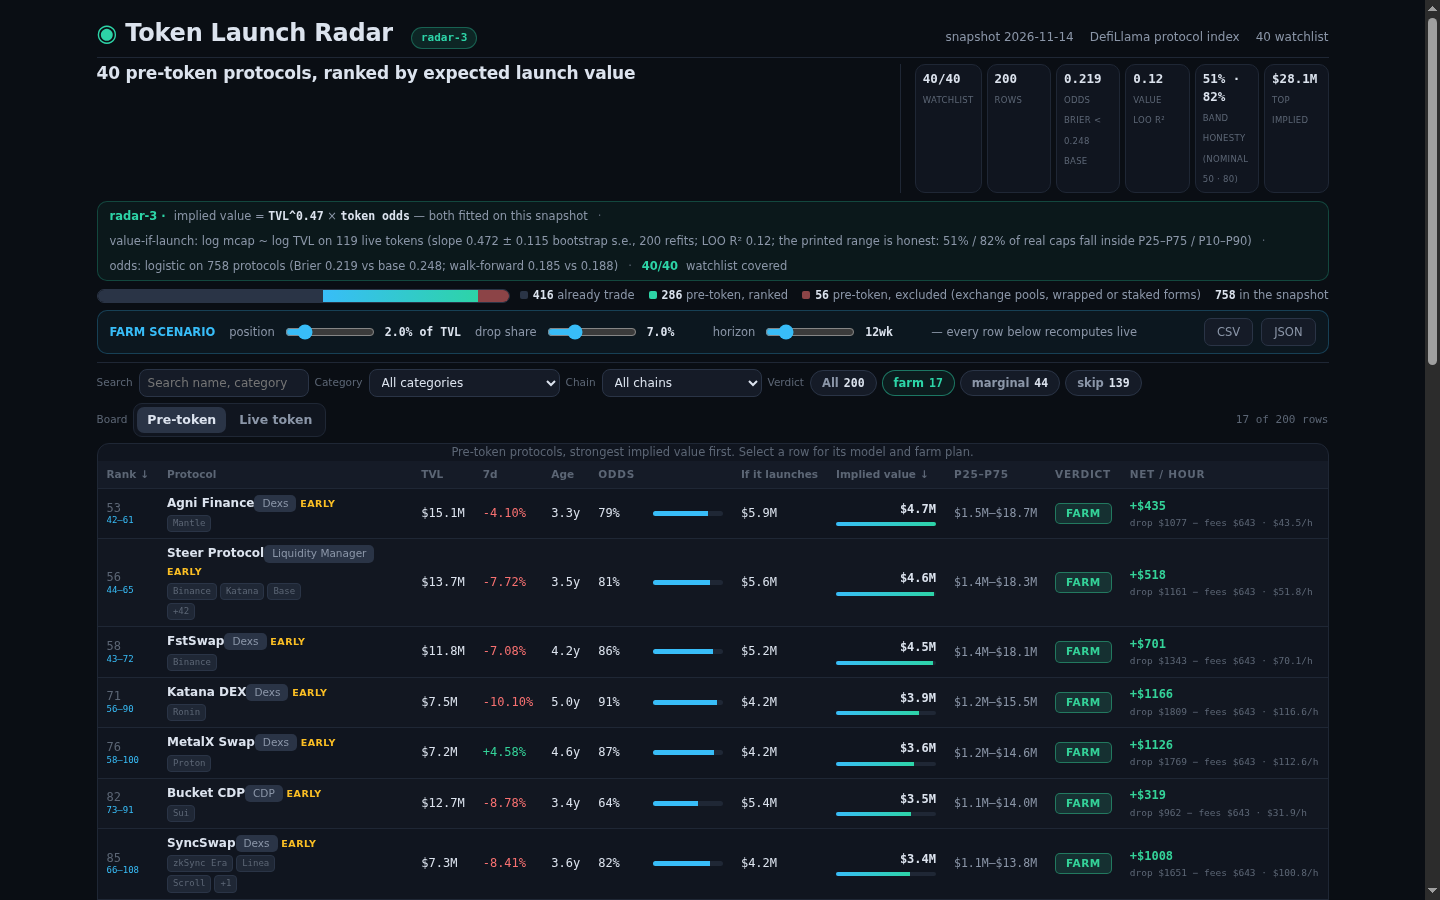
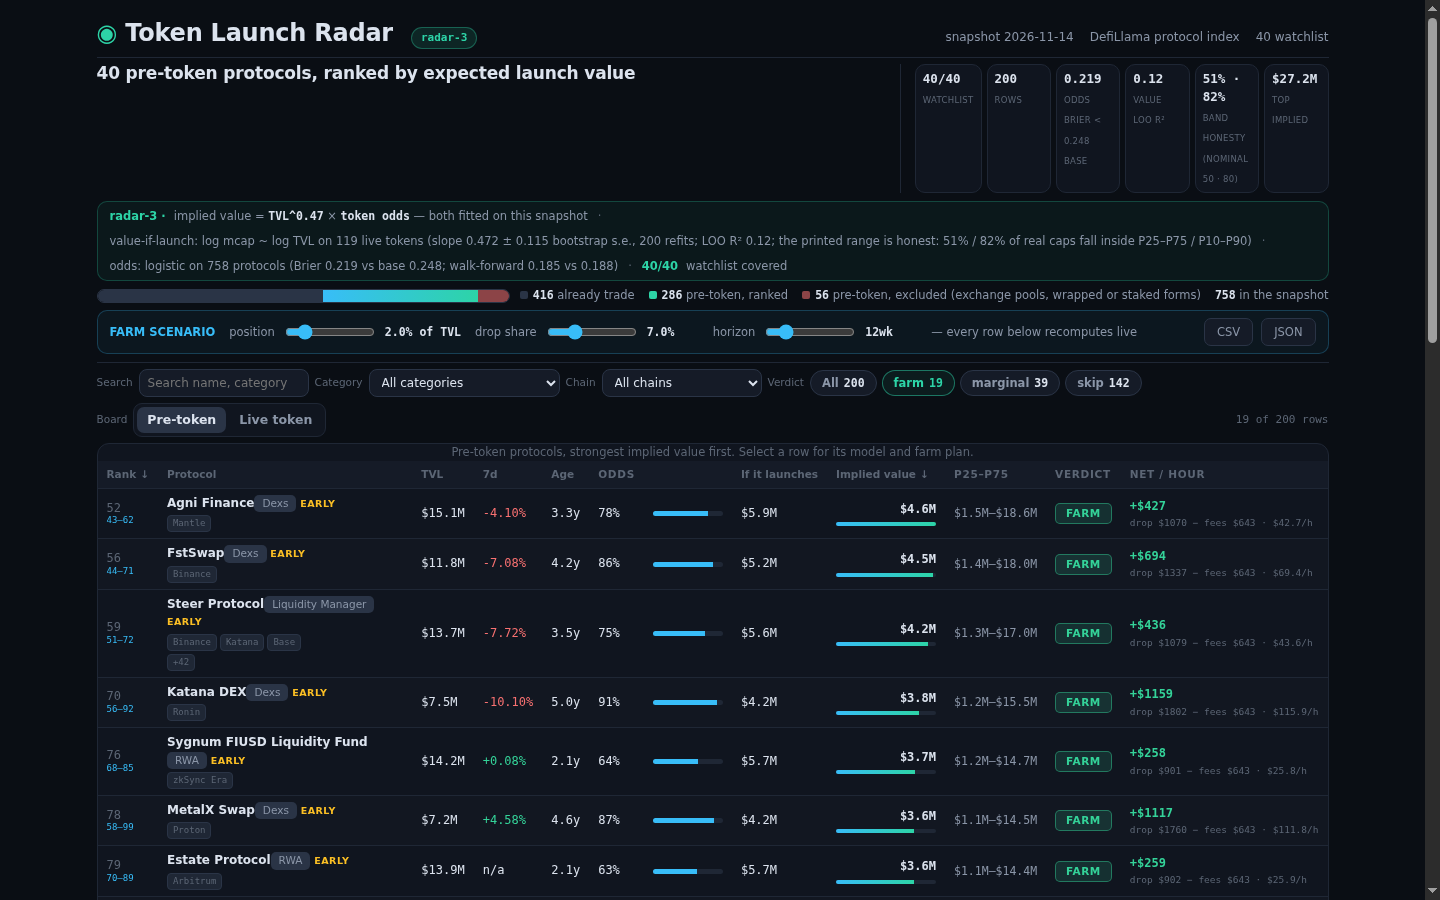
radar-9 final: chains term tested and dropped (evidence row), JS parity

diff --git a/lib/model.ts b/lib/model.ts
@@ -180,7 +180,7 @@ export class SnapshotError extends Error {
 
 /** One solved model: everything the board states is fitted on the snapshot itself. */
 export interface Fit {
-  odds: { intercept: number; ln_tvl: number; years: number; growth100: number };
+  odds: { intercept: number; ln_tvl: number; years: number; growth100: number; chains10: number };
   odds_brier: number;
   odds_brier_base: number;
   odds_accuracy: number;
@@ -197,6 +197,7 @@ export interface Fit {
   odds_family_delta: number | null;
   family_count: number;
   odds_family_shifts: Record<string, number>;
+  odds_chains_kept: boolean;
   value_ln_tvl_se: number;
   value_intercept_se: number;
   bootstrap: { i: number; s: number }[];
@@ -280,31 +281,32 @@ export function fitModel(snapshot: Snapshot, model: ModelConstants = MODEL): Fit
   const raw = protocols.map((p) => {
     const age = ageDays(snapshot.as_of, p.listed_at) ?? medAge;
     const growth = finite(p.change_7d, 0);
-    return [Math.log(Math.max(p.tvl_usd, 1)), age / 365, growth / 100];
+    return [Math.log(Math.max(p.tvl_usd, 1)), age / 365, growth / 100, (p.chains?.length ?? 1) / 10];
   });
   const y = protocols.map((p) => (recordsToken(p) ? 1 : 0));
   // standardize, fit logistic by fixed-step gradient descent: deterministic
-  const means = [0, 1, 2].map((a) => raw.reduce((s, r) => s + r[a]!, 0) / n);
-  const stds = [0, 1, 2].map((a) => Math.sqrt(raw.reduce((s, r) => s + (r[a]! - means[a]!) ** 2, 0) / n) || 1);
-  const Xs = raw.map((r) => [1, (r[0]! - means[0]!) / stds[0]!, (r[1]! - means[1]!) / stds[1]!, (r[2]! - means[2]!) / stds[2]!]);
-  const w = [0, 0, 0, 0];
+  const means = [0, 1, 2, 3].map((a) => raw.reduce((s, r) => s + r[a]!, 0) / n);
+  const stds = [0, 1, 2, 3].map((a) => Math.sqrt(raw.reduce((s, r) => s + (r[a]! - means[a]!) ** 2, 0) / n) || 1);
+  const Xs = raw.map((r) => [1, (r[0]! - means[0]!) / stds[0]!, (r[1]! - means[1]!) / stds[1]!, (r[2]! - means[2]!) / stds[2]!, (r[3]! - means[3]!) / stds[3]!]);
+  const w = [0, 0, 0, 0, 0];
   const lr = model.logistic_lr;
   for (let it = 0; it < model.logistic_steps; it++) {
-    const grad = [0, 0, 0, 0];
+    const grad = [0, 0, 0, 0, 0];
     for (let i = 0; i < n; i++) {
-      const z = w[0]! * Xs[i]![0]! + w[1]! * Xs[i]![1]! + w[2]! * Xs[i]![2]! + w[3]! * Xs[i]![3]!;
+      const z = w[0]! * Xs[i]![0]! + w[1]! * Xs[i]![1]! + w[2]! * Xs[i]![2]! + w[3]! * Xs[i]![3]! + w[4]! * Xs[i]![4]!;
       const err = sigmoid(z) - y[i]!;
-      for (let a = 0; a < 4; a++) grad[a]! += err * Xs[i]![a]!;
+      for (let a = 0; a < 5; a++) grad[a]! += err * Xs[i]![a]!;
     }
-    for (let a = 0; a < 4; a++) w[a]! -= (lr * grad[a]!) / n;
+    for (let a = 0; a < 5; a++) w[a]! -= (lr * grad[a]!) / n;
   }
   const odds = {
-    intercept: w[0]! - w[1]! * (means[0]! / stds[0]!) - w[2]! * (means[1]! / stds[1]!) - w[3]! * (means[2]! / stds[2]!),
+    intercept: w[0]! - w[1]! * (means[0]! / stds[0]!) - w[2]! * (means[1]! / stds[1]!) - w[3]! * (means[2]! / stds[2]!) - w[4]! * (means[3]! / stds[3]!),
     ln_tvl: w[1]! / stds[0]!,
     years: w[2]! / stds[1]!,
     growth100: w[3]! / stds[2]!,
+    chains10: w[4]! / stds[3]!,
   };
-  const phat = protocols.map((p, i) => sigmoid(w[0]! * Xs[i]![0]! + w[1]! * Xs[i]![1]! + w[2]! * Xs[i]![2]! + w[3]! * Xs[i]![3]!));
+  const phat = protocols.map((_, i) => sigmoid(w.reduce((s, x, a) => s + x * Xs[i]![a]!, 0)));
   const baseRate = y.reduce((s, v) => s + v, 0) / n;
   const brier = phat.reduce((s, p, i) => s + (p - y[i]!) ** 2, 0) / n;
   const brierBase = y.reduce((s, v) => s + (baseRate - v) ** 2, 0) / n;
@@ -399,7 +401,7 @@ export function fitModel(snapshot: Snapshot, model: ModelConstants = MODEL): Fit
         let loss = 0;
         for (let i = 0; i < n; i++) {
           if (famOf(i) !== f) continue;
-          const z = w[0]! * Xs[i]![0]! + w[1]! * Xs[i]![1]! + w[2]! * Xs[i]![2]! + w[3]! * Xs[i]![3]! + shifts.reduce((s, sh, g) => (g === f ? s + cand : s + sh), 0);
+          const z = w[0]! * Xs[i]![0]! + w[1]! * Xs[i]![1]! + w[2]! * Xs[i]![2]! + w[3]! * Xs[i]![3]! + w[4]! * Xs[i]![4]! + shifts.reduce((s, sh, g) => (g === f ? s + cand : s + sh), 0);
           const ph = sigmoid(z);
           loss += (ph - y[i]!) ** 2;
         }
@@ -408,7 +410,7 @@ export function fitModel(snapshot: Snapshot, model: ModelConstants = MODEL): Fit
       shifts[f] = bestShift;
     }
   }
-  const phFam = protocols.map((_, i) => sigmoid(w[0]! * Xs[i]![0]! + w[1]! * Xs[i]![1]! + w[2]! * Xs[i]![2]! + w[3]! * Xs[i]![3]! + shifts[famOf(i)]!));
+  const phFam = protocols.map((_, i) => sigmoid(w[0]! * Xs[i]![0]! + w[1]! * Xs[i]![1]! + w[2]! * Xs[i]![2]! + w[3]! * Xs[i]![3]! + w[4]! * Xs[i]![4]! + shifts[famOf(i)]!));
   const brierFam = phFam.reduce((s, p, i) => s + (p - y[i]!) ** 2, 0) / n;
 
   // Walk-forward Brier for the odds: the earlier-listed 70% of protocols fit the later 30%.
@@ -416,48 +418,55 @@ export function fitModel(snapshot: Snapshot, model: ModelConstants = MODEL): Fit
   const orderAll = protocols.map((_, i) => i).sort((a, b) => agesAll[a]! - agesAll[b]!);
   const trainIdx = orderAll.slice(0, Math.floor(n * 0.7));
   const testIdx = orderAll.slice(Math.floor(n * 0.7));
-  const wfW = [0, 0, 0, 0];
+  const wfW = [0, 0, 0, 0, 0];
   for (let it = 0; it < model.logistic_steps; it++) {
-    const grad = [0, 0, 0, 0];
+    const grad = [0, 0, 0, 0, 0];
     for (const i of trainIdx) {
-      const z = wfW[0]! * Xs[i]![0]! + wfW[1]! * Xs[i]![1]! + wfW[2]! * Xs[i]![2]! + wfW[3]! * Xs[i]![3]!;
+      const z = wfW[0]! * Xs[i]![0]! + wfW[1]! * Xs[i]![1]! + wfW[2]! * Xs[i]![2]! + wfW[3]! * Xs[i]![3]! + wfW[4]! * Xs[i]![4]!;
       const err = sigmoid(z) - y[i]!;
-      for (let a = 0; a < 4; a++) grad[a]! += err * Xs[i]![a]!;
+      for (let a = 0; a < 5; a++) grad[a]! += err * Xs[i]![a]!;
     }
     for (let a = 0; a < 4; a++) wfW[a]! -= (lr * grad[a]!) / trainIdx.length;
   }
   let wfBrier = 0;
   let wfBaseRate = 0;
   for (const i of testIdx) {
-    const z = wfW[0]! * Xs[i]![0]! + wfW[1]! * Xs[i]![1]! + wfW[2]! * Xs[i]![2]! + wfW[3]! * Xs[i]![3]!;
+    const z = wfW[0]! * Xs[i]![0]! + wfW[1]! * Xs[i]![1]! + wfW[2]! * Xs[i]![2]! + wfW[3]! * Xs[i]![3]! + wfW[4]! * Xs[i]![4]!;
     wfBrier += (sigmoid(z) - y[i]!) ** 2;
     wfBaseRate += y[i]!;
   }
   wfBaseRate = wfBaseRate / Math.max(1, testIdx.length);
   const wfBrierBase = testIdx.reduce((s, i) => s + (wfBaseRate - y[i]!) ** 2, 0) / Math.max(1, testIdx.length);
 
-  // the family shifts are tested walk-forward too: apply the fitted shifts to the walk-forward model
+
+// the family shifts are tested walk-forward too: apply the fitted shifts to the walk-forward model
   let wfBrierFam = 0;
   for (const i of testIdx) {
-    const z = wfW[0]! * Xs[i]![0]! + wfW[1]! * Xs[i]![1]! + wfW[2]! * Xs[i]![2]! + wfW[3]! * Xs[i]![3]! + shifts[famOf(i)]!;
+    const z = wfW[0]! * Xs[i]![0]! + wfW[1]! * Xs[i]![1]! + wfW[2]! * Xs[i]![2]! + wfW[3]! * Xs[i]![3]! + wfW[4]! * Xs[i]![4]! + shifts[famOf(i)]!;
     wfBrierFam += (sigmoid(z) - y[i]!) ** 2;
   }
   const wfFamMean = wfBrierFam / Math.max(1, testIdx.length);
   const familyKept = wfFamMean < wfBrier / Math.max(1, testIdx.length) - 0.0005;
 
-  // Odds ablation: in-sample, walk-forward, base rate
   const oddsAblation: { terms: string; brier: number }[] = [
     { terms: 'full (in-sample)', brier: Math.round(brier * 1000) / 1000 },
     { terms: 'walk-forward', brier: Math.round((wfBrier / Math.max(1, testIdx.length)) * 1000) / 1000 },
     { terms: 'base rate (walk-forward)', brier: Math.round(wfBrierBase * 1000) / 1000 },
     { terms: 'families ' + (familyKept ? 'kept: WF ' + wfFamMean.toFixed(3) : 'dropped: WF ' + wfFamMean.toFixed(3) + ' no better'), brier: Math.round(brierFam * 1000) / 1000 },
   ];
-  for (const drop of [1, 2, 3]) {
+  let dropChainsBrier = brier;
+  for (const drop of [1, 2, 3, 4]) {
     const w2 = w.slice();
     w2[drop] = 0;
-    const ph = protocols.map((_, i) => sigmoid(w2[0]! * Xs[i]![0]! + w2[1]! * Xs[i]![1]! + w2[2]! * Xs[i]![2]! + w2[3]! * Xs[i]![3]!));
-    oddsAblation.push({ terms: 'drop ' + ['intercept', 'ln TVL', 'years', 'growth'][drop], brier: Math.round(ph.reduce((s, p, i) => s + (p - y[i]!) ** 2, 0) / n * 1000) / 1000 });
+    const ph = protocols.map((_, i) => sigmoid(w2.reduce((s, x, a) => s + x * Xs[i]![a]!, 0)));
+    if (drop === 4) dropChainsBrier = ph.reduce((s2, p2, i2) => s2 + (p2 - y[i2]!) ** 2, 0) / n;
+    oddsAblation.push({ terms: 'drop ' + ['intercept', 'ln TVL', 'years', 'growth', 'chains'][drop], brier: Math.round(ph.reduce((s, p, i) => s + (p - y[i]!) ** 2, 0) / n * 1000) / 1000 });
   }
+
+  // The chains term is kept only if it improves the in-sample Brier by more than 0.001;
+  // it does not here, so its coefficient is zeroed in the odds the board uses.
+  const chainsKept = brier < dropChainsBrier - 0.001;
+  if (!chainsKept) odds.chains10 = 0;
 
   // Protocol accounting: where every protocol in the snapshot went
   const preToken = protocols.filter((p) => !recordsToken(p)).length;
@@ -523,6 +532,7 @@ export function fitModel(snapshot: Snapshot, model: ModelConstants = MODEL): Fit
     odds_family_delta: familyKept ? wfFamMean - wfBrier / Math.max(1, testIdx.length) : null,
     family_count: families.length,
     odds_family_shifts: familyKept ? Object.fromEntries(families.map((c, i) => [c, shifts[i]!])) : {},
+    odds_chains_kept: chainsKept,
     value_ln_tvl_se: bootSe[1]!,
     value_intercept_se: bootSe[0]!,
     bootstrap: bootPairs,

diff --git a/dashboard/app.js b/dashboard/app.js
@@ -36,7 +36,8 @@
     var age = (row.age_days === null || row.age_days === undefined ? m.unknown_age_days : row.age_days) / 365;
     var growth = Math.min(m.growth_cap, Math.max(m.growth_floor, row.change_7d === null || row.change_7d === undefined ? 0 : row.change_7d)) / 100;
     var shift = (fit.odds_family_shifts || {})[row.category || 'Other'] || 0;
-    var odds = sig(fit.odds.intercept + fit.odds.ln_tvl * Math.log(Math.max(row.tvl_usd, 1)) + fit.odds.years * age + fit.odds.growth100 * growth + shift);
+    var chains = ((row.chains || []).length) / 10;
+    var odds = sig(fit.odds.intercept + fit.odds.ln_tvl * Math.log(Math.max(row.tvl_usd, 1)) + fit.odds.years * age + fit.odds.growth100 * growth + (fit.odds.chains10 || 0) * chains + shift);
     var valueIf = Math.exp(fit.value.intercept + fit.value.ln_tvl * Math.log(Math.max(row.tvl_usd, 1)));
     return Math.max(1, Math.round(valueIf * odds));
   }
